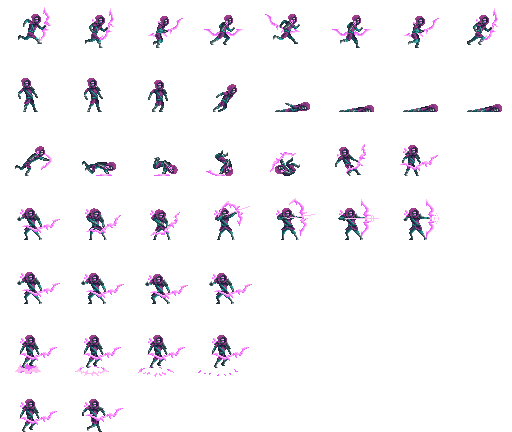
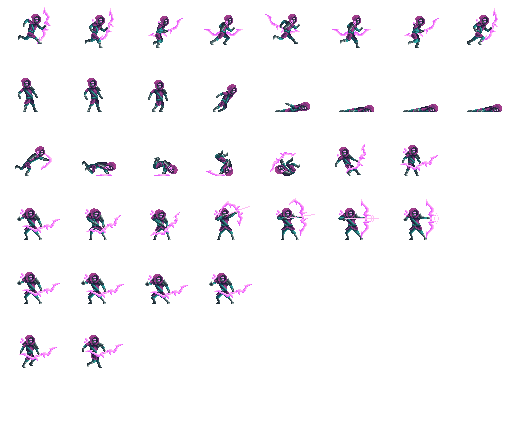
feat! Implement Archer states properly

diff --git a/src/enemy/archer/mod.rs b/src/enemy/archer/mod.rs
@@ -9,6 +9,7 @@ use crate::{GameAssets, GameState};
 
 const MOVE_SPEED: f32 = 80.0;
 const SHOOT_RANGE: f32 = 500.0;
+const SHOOT_COOLDOWN: f32 = 5.0;
 
 pub use super::Enemy;
 
@@ -21,6 +22,7 @@ impl Plugin for EnemyArcherPlugin {
             movement::EnemyArcherMovementPlugin,
             shooting::EnemyArcherShootingPlugin,
         ))
+        .add_systems(Update, (tick_cooldowns,))
         .add_systems(
             PostUpdate,
             (update_animations,).run_if(in_state(GameState::Gaming)),
@@ -34,11 +36,24 @@ enum ArcherState {
     Idling,
     Moving,
     Shooting,
+    Stunned,
 }
 
-#[derive(Component, Default)]
+#[derive(Component)]
 pub struct EnemyArcher {
     state: ArcherState,
+    moving_cooldown: Timer,
+    shooting_cooldown: Timer,
+}
+
+impl Default for EnemyArcher {
+    fn default() -> Self {
+        Self {
+            state: ArcherState::default(),
+            moving_cooldown: Timer::from_seconds(1.0, TimerMode::Once),
+            shooting_cooldown: Timer::from_seconds(SHOOT_COOLDOWN, TimerMode::Once),
+        }
+    }
 }
 
 fn update_animations(
@@ -50,8 +65,16 @@ fn update_animations(
             ArcherState::Idling => assets.enemy_archer_animations[0].clone(),
             ArcherState::Moving => assets.enemy_archer_animations[1].clone(),
             ArcherState::Shooting => assets.enemy_archer_animations[2].clone(),
+            ArcherState::Stunned => assets.enemy_archer_animations[3].clone(),
         };
 
         animator.play(animation).repeat();
+    }
+}
+
+fn tick_cooldowns(time: Res<Time>, mut q_archers: Query<&mut EnemyArcher>) {
+    for mut archer in &mut q_archers {
+        archer.moving_cooldown.tick(time.delta());
+        archer.shooting_cooldown.tick(time.delta());
     }
 }

diff --git a/src/enemy/archer/spawn.rs b/src/enemy/archer/spawn.rs
@@ -8,7 +8,7 @@ use bevy_trickfilm::prelude::*;
 
 use crate::{player::Player, utils::quat_from_vec2, world::camera::YSort, GameAssets, GameState};
 
-use super::{Enemy, EnemyArcher};
+use super::{ArcherState, Enemy, EnemyArcher};
 
 const OFFSET: f32 = 1000.0;
 
@@ -44,7 +44,7 @@ fn spawn_enemies(
 
     let collider = commands
         .spawn((
-            Collider::capsule(Vec2::new(16.0, 0.0), Vec2::new(-16.0, 0.0), 7.0),
+            Collider::capsule(Vec2::new(10.0, 0.0), Vec2::new(-10.0, 0.0), 7.0),
             ActiveEvents::COLLISION_EVENTS,
             CollisionGroups::default(),
             TransformBundle::from_transform(
@@ -87,6 +87,14 @@ fn tick_enemy_spawn_cooldown(
     enemy_spawn_cooldown.timer.tick(time.delta());
 }
 
+fn trigger_stunned(mut q_archers: Query<(&Enemy, &mut EnemyArcher)>) {
+    for (enemy, mut archer) in &mut q_archers {
+        if enemy.disabled || enemy.stunned {
+            archer.state = ArcherState::Stunned;
+        }
+    }
+}
+
 pub struct EnemyArcherSpawnPlugin;
 
 impl Plugin for EnemyArcherSpawnPlugin {
@@ -96,7 +104,8 @@ impl Plugin for EnemyArcherSpawnPlugin {
         })
         .add_systems(
             Update,
-            (spawn_enemies, tick_enemy_spawn_cooldown).run_if(in_state(GameState::Gaming)),
+            (spawn_enemies, tick_enemy_spawn_cooldown, trigger_stunned)
+                .run_if(in_state(GameState::Gaming)),
         );
     }
 }

diff --git a/src/enemy/archer/movement.rs b/src/enemy/archer/movement.rs
@@ -2,22 +2,31 @@ use bevy::prelude::*;
 
 use crate::player::Player;
 
-use super::{ArcherState, Enemy, EnemyArcher, MOVE_SPEED};
+use super::{ArcherState, EnemyArcher, MOVE_SPEED};
+
+fn trigger_moving(mut q_archers: Query<&mut EnemyArcher>) {
+    for mut archer in &mut q_archers {
+        if !archer.moving_cooldown.finished() {
+            continue;
+        }
+
+        if archer.state == ArcherState::Idling {
+            archer.state = ArcherState::Moving;
+        }
+    }
+}
 
 fn move_archers(
     time: Res<Time>,
     q_player: Query<&Transform, With<Player>>,
-    mut q_enemies: Query<(&mut Transform, &Enemy, &EnemyArcher), Without<Player>>,
+    mut q_enemies: Query<(&mut Transform, &EnemyArcher), Without<Player>>,
 ) {
     let player_pos = match q_player.get_single() {
         Ok(r) => r.translation,
         Err(_) => return,
     };
 
-    for (mut transform, enemy, archer) in &mut q_enemies {
-        if enemy.disabled || enemy.stunned {
-            continue;
-        }
+    for (mut transform, archer) in &mut q_enemies {
         if archer.state != ArcherState::Moving {
             continue;
         }
@@ -34,6 +43,6 @@ pub struct EnemyArcherMovementPlugin;
 
 impl Plugin for EnemyArcherMovementPlugin {
     fn build(&self, app: &mut App) {
-        app.add_systems(Update, (move_archers,));
+        app.add_systems(Update, (trigger_moving, move_archers));
     }
 }

diff --git a/src/enemy/archer/shooting.rs b/src/enemy/archer/shooting.rs
@@ -24,7 +24,10 @@ fn trigger_shooting(
     };
 
     for (archer_transform, mut archer) in &mut q_archers {
-        if archer.state == ArcherState::Shooting {
+        if archer.state == ArcherState::Shooting || archer.state == ArcherState::Stunned {
+            continue;
+        }
+        if !archer.shooting_cooldown.finished() {
             continue;
         }
 
@@ -46,10 +49,7 @@ fn spawn_projectiles(
     };
 
     for (archer_transform, animator, mut archer) in &mut q_archers {
-        if archer.state != ArcherState::Shooting {
-            continue;
-        }
-        if !animator.is_finished() {
+        if archer.state != ArcherState::Shooting || !animator.is_finished() {
             continue;
         }
 
@@ -80,6 +80,8 @@ fn spawn_projectiles(
                 },
             ))
             .push_children(&[collider]);
+        archer.shooting_cooldown.reset();
+        archer.moving_cooldown.reset();
         archer.state = ArcherState::Idling;
     }
 }

diff --git a/src/assets.rs b/src/assets.rs
@@ -61,6 +61,7 @@ pub struct GameAssets {
             "enemy/archer/archer.trickfilm#idling",
             "enemy/archer/archer.trickfilm#walking",
             "enemy/archer/archer.trickfilm#shooting",
+            "enemy/archer/archer.trickfilm#stunned",
         ),
         collection(typed)
     )]
